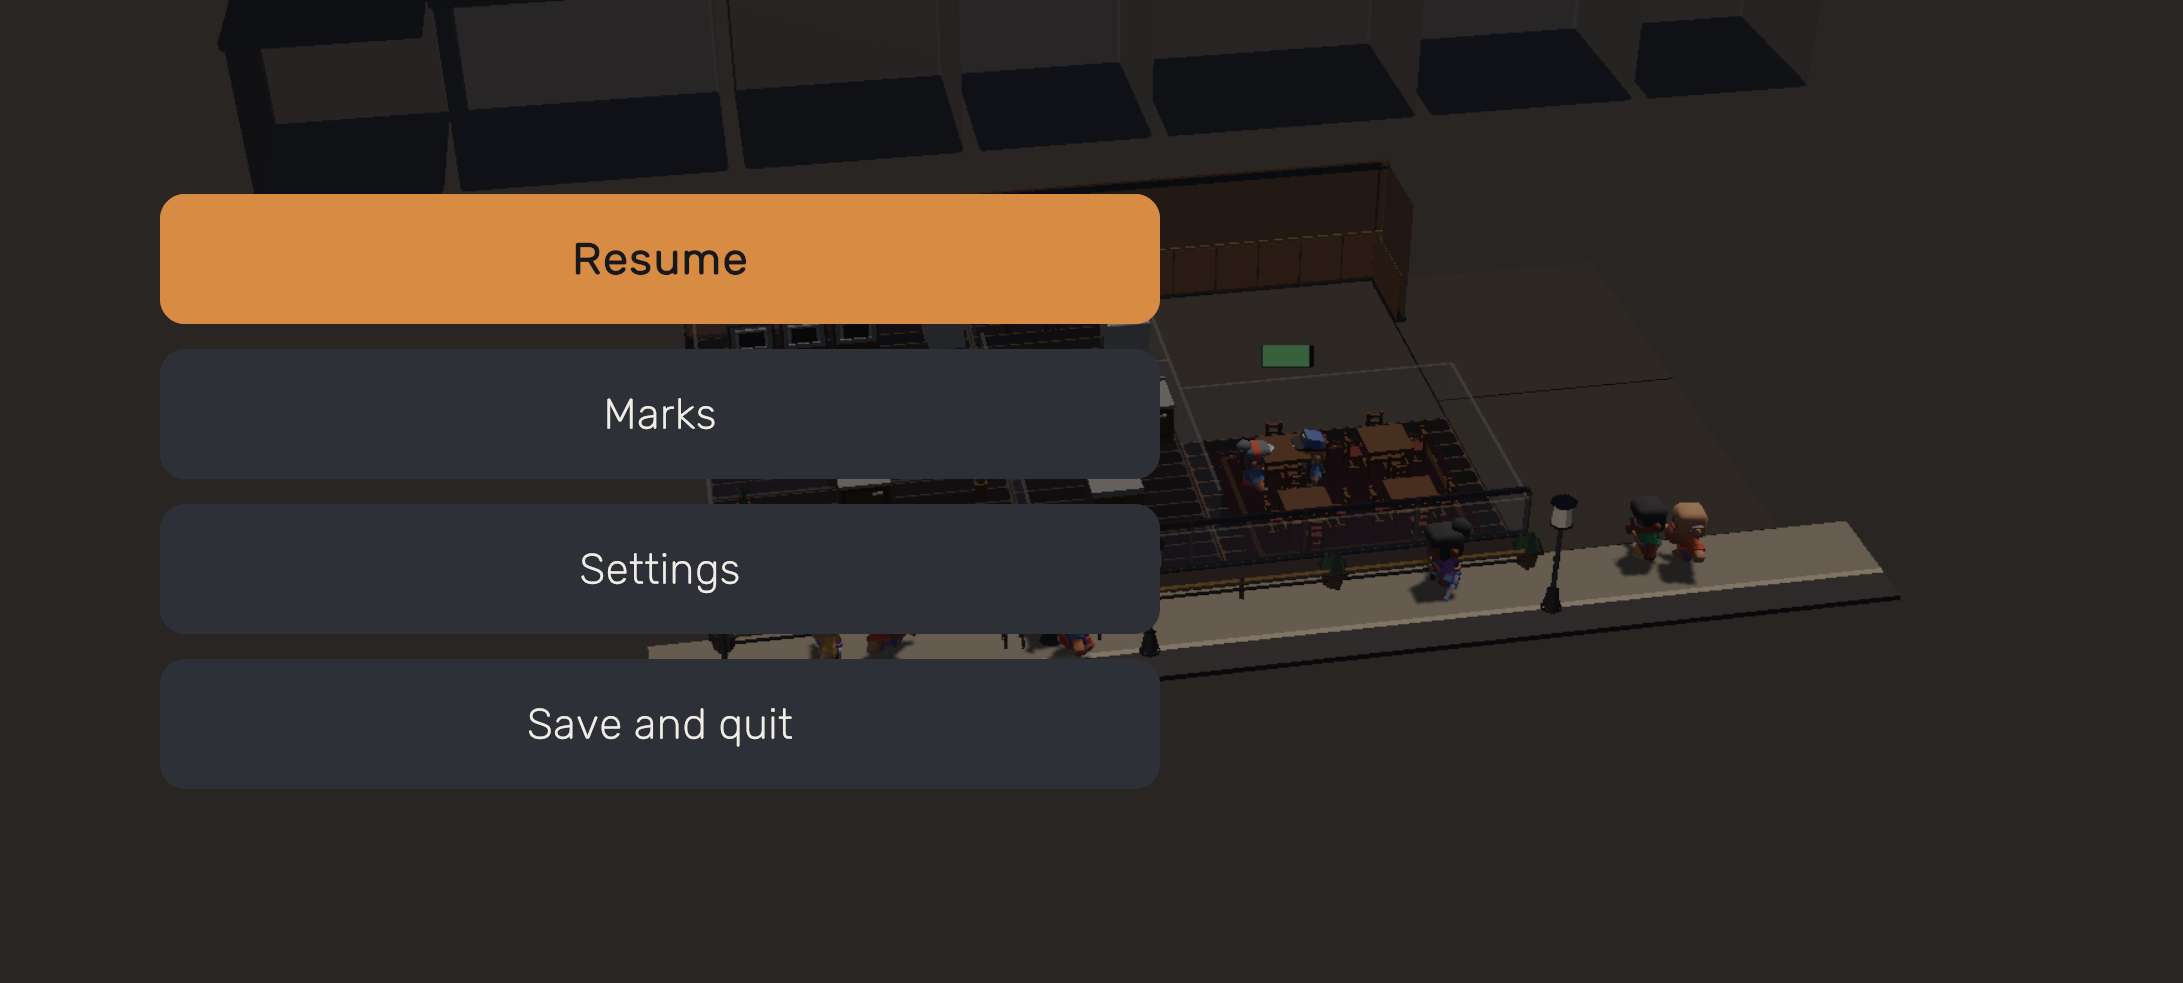
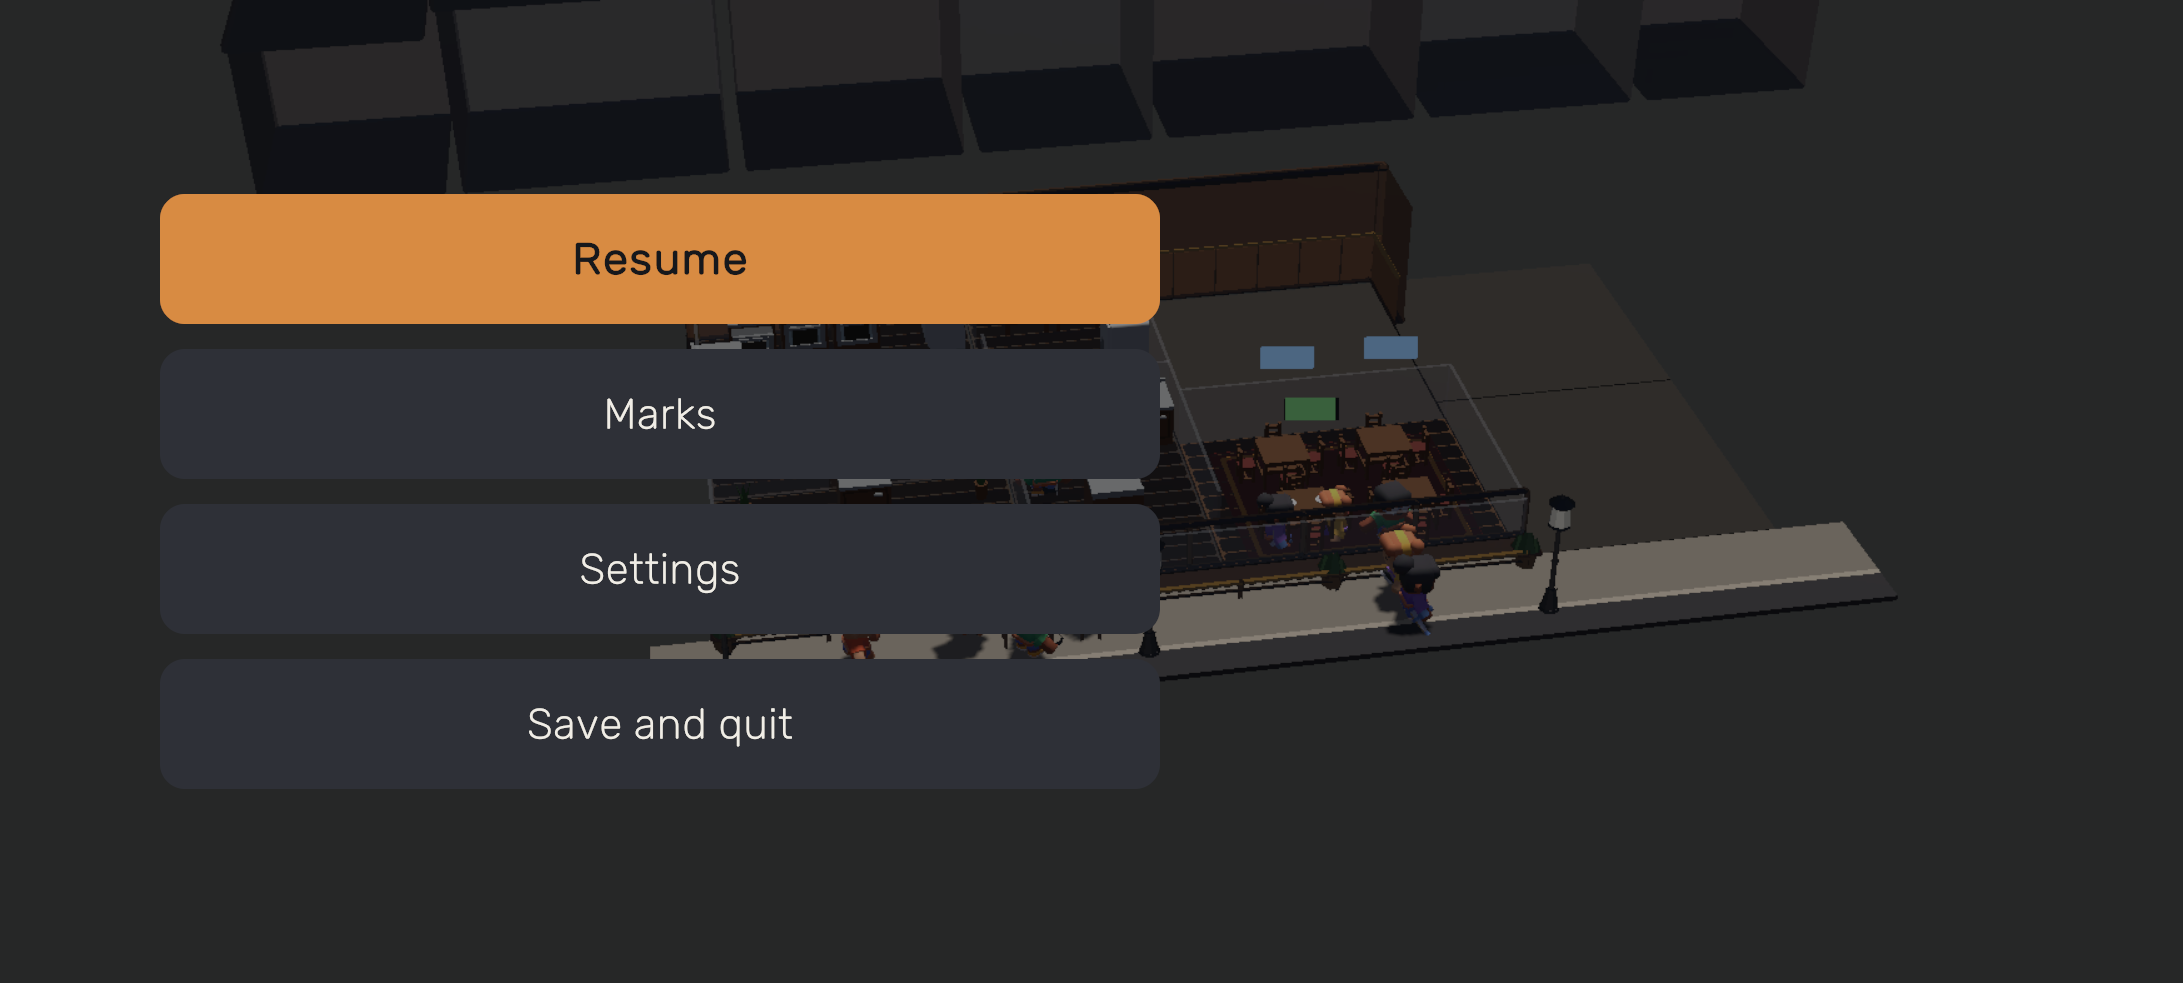
The kitchen had no middle, and the audit caught the counters that did not fit
A small restaurant kitchen is a sequence - cold store, PREP, cooking line,
pass - and this one went straight from the fridge to the stoves. The pass
exists (the service counter), the fridge is back-right, the stoves line the
back wall, so prep belongs on the left wall, which turns the line into an L.

The middle has to stay clear, and not as a matter of taste: Paths.CookHome
puts the idle cook at the room's centre and Paths.KitchenPost puts the
working cook in front of the stoves, so an island would be something to walk
through - and the in-room routing added today covers dining rooms only.

THE AUDIT EARNED ITS KEEP THE FIRST TIME IT WAS ASKED. The first attempt put
three counters where two fit: the prefab is 0.92 m and the run was 1.94 m,
so they stood inside each other - 0.23 m between neighbours and 0.38 m
against the leftmost stove. That is the same audit that reported nothing but
noise this morning, before the merged Decor group was excluded from it. Two
counters, a run starting further forward, 0.76 m clear of the cooking line:
0 clashing pairs.

I also caught myself before running it once: a shelf above the prep run
would have stood INSIDE the counter, because ShelfPrefab is a floor-standing
unit and Place puts things on the floor. Two floor units cannot share a wall
strip.

AND THE ENGLISH CHECK COULD NOT PRINT ITS OWN FINDING. It reports Turkish
text by definition, and on a Windows console the default code page cannot
[…]

Changed region(s): [[0.5295, 0.3357, 0.7787, 0.6409], [0.3426, 0.6409, 0.4984, 0.6714], [0.3115, 0.3357, 0.3738, 0.3662]]

diff --git a/unity/Assets/Lokanta/Game/RestaurantView.cs b/unity/Assets/Lokanta/Game/RestaurantView.cs
@@ -2369,6 +2369,66 @@ namespace Lokanta.Game
                         // While it was on the left wall 90 was right; it was corrected
                         // when it moved.
                         Place(FridgePrefab, r.X0 + r.W - 0.55f, r.Z0 + r.D - 0.7f, -90f);
+
+                        // THE PREP RUN, ALONG THE LEFT WALL: the kitchen was a
+                        // row of stoves and a fridge, with nothing to put
+                        // anything down on.
+                        //
+                        // A small restaurant kitchen is a sequence and the
+                        // sequence was missing its middle: cold store, PREP,
+                        // cooking line, pass. The fridge is in the back-right
+                        // corner, the stoves along the back wall and the pass
+                        // at the front (RestaurantView.Decor's service
+                        // counter) - so prep belongs on the left wall, which
+                        // turns the line into an L and leaves the middle of
+                        // the room clear.
+                        //
+                        // THE MIDDLE HAS TO STAY CLEAR, and that is not a
+                        // matter of taste: Paths.CookHome puts the idle cook
+                        // at the room's centre and Paths.KitchenPost puts the
+                        // working cook in front of the stoves, so an island
+                        // would be something to walk through - and the in-room
+                        // routing added today covers DINING rooms only.
+                        //
+                        // It runs from the middle of the room to the back
+                        // wall, not the full depth: the front half is where a
+                        // cook coming in from the entrance walks.
+                        // TWO, NOT THREE, AND THE AUDIT SAID SO.
+                        //
+                        // The counter prefab is 0.92 m long. Three of them
+                        // wanted 2.76 m of wall and the first run gave them
+                        // 1.94, so they stood INSIDE each other - the
+                        // placement audit reported 0.23 m of overlap between
+                        // neighbours and 0.38 m between the top one and the
+                        // leftmost stove. That audit had been reporting
+                        // nothing but noise until this morning, which is why
+                        // it is worth saying that it caught this the first
+                        // time it was asked.
+                        //
+                        // So the run starts further forward and holds two:
+                        // 2.09 m of wall for 1.84 m of counter, and 0.76 m
+                        // clear of the cooking line.
+                        float prepZ0 = r.Z0 + r.D * 0.35f;
+                        float prepZ1 = r.Z0 + r.D - 1.55f;
+                        int prepCount = 2;
+                        for (int i = 0; i < prepCount; i++)
+                        {
+                            float t = (i + 0.5f) / prepCount;
+                            // x = 0.34 so the counter's far edge stays clear of
+                            // KitchenPost's leftmost post at 0.75 with half a
+                            // body (0.22) to spare.
+                            Place(CounterPrefab, r.X0 + 0.34f,
+                                  prepZ0 + (prepZ1 - prepZ0) * t, 90f);
+                        }
+
+                        // NO SHELVES ABOVE IT. ShelfPrefab is a floor-standing
+                        // unit - the store room lines the wall with it - not a
+                        // wall bracket, and `Place` puts things on the floor.
+                        // Two floor units cannot share one wall strip, so a
+                        // shelf here would simply stand inside the counter.
+                        // The kitchen hood already gives the back wall its
+                        // vertical detail; the left wall does not need
+                        // clutter it cannot hold.
                         break;
                     case "Sink":
                         BuildDishStation(r);

diff --git a/tools/check_english.py b/tools/check_english.py
@@ -469,7 +469,24 @@ def check_prose():
     return bad
 
 
+def _utf8_stdout():
+    """Print findings without dying on them.
+
+    This tool's whole job is to report Turkish text, and on a Windows
+    console the default code page cannot encode it: the run ended in
+    `UnicodeEncodeError: 'charmap' codec can't encode character` and the
+    check went RED with no finding shown. A checker that cannot print its
+    own answer is worse than one that finds nothing - the reader sees a
+    crash and has to guess whether there was a real problem behind it.
+    """
+    try:
+        sys.stdout.reconfigure(encoding="utf-8", errors="replace")
+    except Exception:
+        pass
+
+
 def main():
+    _utf8_stdout()
     ap = argparse.ArgumentParser()
     ap.add_argument("--list", action="store_true",
                     help="print every violation instead of a sample")

diff --git a/docs/58-visual-review.md b/docs/58-visual-review.md
@@ -535,6 +535,104 @@ Eight dp of hall for a group that says what it is.
 
 ---
 
+## 12. Three things the user saw that no check was watching
+
+> *"Karakterler mobilyalarin icinden geciyor bunu duzelt. Ayrica mutfak
+> yerlesimini vs daha gercekci yap. Kapi vs onlarin yerlerini de kontrol et.
+> Ayrica musteri ve karakterlerin ismi secilen dile gore degissin."*
+>
+> *("Characters are walking through the furniture, fix it. Also make the kitchen
+> layout more realistic. Check the doors and their positions too. And the
+> customers' and characters' names should change with the chosen language.")*
+
+### Walking through the furniture
+
+`Paths.Lane` said why in one line: `if (targetRoom == sourceRoom) return;`.
+Between rooms it routed through doors; **inside** a room it added no waypoints at
+all, so a waiter crossing a dining room went in a straight line through every
+table and chair.
+
+**There is no gap to walk between tables, and that is measured.** A chair sits
+`SeatRadius` 0.58 m from the table's centre and is about 0.40 m deep, so a table
+set is roughly 1.56 m across. The grid cell is 1.85 × 1.70, which leaves 0.29 m
+between sets in x and 0.14 m in z — against a figure about 0.45 m wide. Routing
+*between* them was never available at this table density, and no amount of
+cleverness in the path code would have found a way through.
+
+What **is** available is the perimeter: `RoomPlan.TableSpots` centres the grid in
+the room, leaving 0.50–0.65 m on all four sides, and every table in these rooms
+touches it. The route is now out to the nearer side lane, along it, and in —
+three waypoints and no pathfinding, which is the rule this layer was built on.
+
+**Mutation-verified**, because a claim about furniture needed a number:
+
+| | worst a walking figure gets inside a table set |
+|---|---:|
+| with the fix | **0.00 m** |
+| with the routing removed again | **0.50 m**, and the check goes red |
+
+### The placement audit had been reporting noise
+
+Asked to check the doors and the furniture, the answer came back: **93 clashing
+pairs** — and every single one was against `Decor`, the merged mesh `Modeler`
+builds one of per colour, whose axis-aligned box covers most of the building.
+Not one real object-to-object overlap in the scene.
+
+A list where every line is noise is a list nobody reads, and the one real clash
+it exists to catch would have been invisible in it. With the merged group
+skipped it reports something usable — and it earned that the first time it was
+asked, catching the prep counters below.
+
+### The kitchen had no middle
+
+A small restaurant kitchen is a sequence — cold store, **prep**, cooking line,
+pass — and this one went straight from the fridge to the stoves. The pass exists
+(the service counter), the fridge is in the back-right corner, the stoves line
+the back wall, so prep belongs on the left wall, which turns the line into an L.
+
+**The middle has to stay clear**, and not as a matter of taste: `Paths.CookHome`
+puts the idle cook at the room's centre and `Paths.KitchenPost` puts the working
+cook in front of the stoves, so an island would be something to walk through —
+and the in-room routing above covers dining rooms only.
+
+The first attempt put three counters where two fit. The counter prefab is 0.92 m
+and the run was 1.94 m, so they stood inside each other: the audit reported
+0.23 m between neighbours and 0.38 m against the leftmost stove. Two counters,
+a run starting further forward, 0.76 m clear of the cooking line — **0 clashing
+pairs**.
+
+### Names follow the language
+
+Nine of the twenty named regulars carry a Turkish register marker. They are
+kept here as quoted terms because the whole point is the word itself:
+"Usta" (master craftsman), "Teyze" (auntie), "Bey" and "Hanım" (formal),
+"Abla" (elder sister), "Dede" (grandad), "Abi" (elder brother), "Hoca"
+(coach or teacher), "Şoför" (driver). That marker is what says how the owner
+knows this person. It is the point of a named regular,
+so this is not transliteration:
+
+| | what it maps to |
+|---|---|
+| **es** | *Don* / *Doña* for the elders, *Profe* for the coach — the same warm-formal register, used the same way |
+| **zh** | X 师傅 is the exact counterpart of *Usta*, X 阿姨 of *Teyze*, X 爷爷 of *Dede*, 老 X of the familiar elder. Almost one to one |
+| **ar** | Arabic has *usta* (الأسطى) from the same Ottoman root, plus عم, خالة and الحاج — and several of the Turkish names are Arabic in origin anyway |
+| **en** | the least of this, so plain first names with Auntie / Uncle / Grandad / Coach where the register really carries |
+
+The 96 staff names became `name.staff.N` in all five tables, index-aligned with
+`content/names.json`. **The core hands out an index and the view resolves it**, so
+a row is the same *person* in every language and a save keeps its meaning across
+a language change: switching language renames the cook rather than replacing
+them. `gen_loc` checks the length, because a short list would leave the last few
+names untranslated without a word.
+
+And the tour was building the expected tenure notice from `Sim.StaffName` while
+`Notices.cs` had moved to `Loc.StaffName` — a Turkish name compared against a
+translated one, which would have turned that check quietly UNMEASURED. The
+comment directly above it already records that exact lesson from an earlier
+round.
+
+---
+
 ## 11. The release build was blocked, and the cause was a compiler nobody used
 
 Re-running the two pre-release gates after this round found something that has
